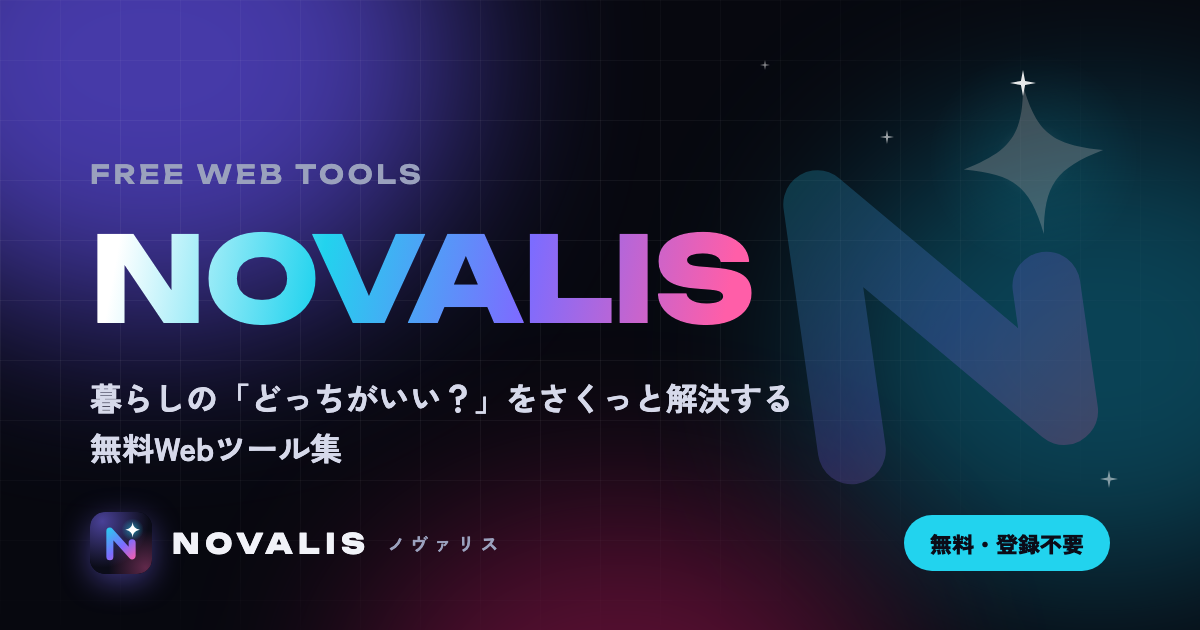
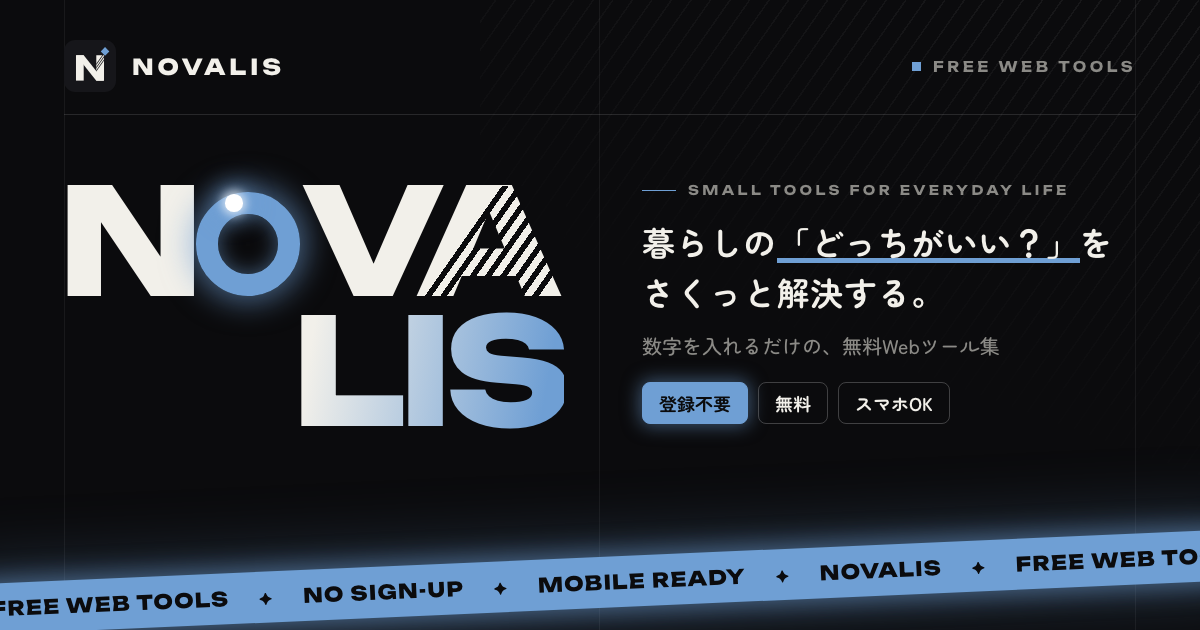
シェア画像（OGP）を今のデザインに作り直し、画像アドレスに版番号を追加

diff --git a/index.html b/index.html
@@ -14,7 +14,7 @@
   <meta property="og:url" content="https://novalis-lab.github.io/">
   <meta property="og:title" content="novalis｜暮らしの「どっちがいい？」を解決する無料Webツール集">
   <meta property="og:description" content="高速と下道の料金比較、予算内のメニュー決めスロットなど、登録不要ですぐ使える無料Webツール集。">
-  <meta property="og:image" content="https://novalis-lab.github.io/ogp.png">
+  <meta property="og:image" content="https://novalis-lab.github.io/ogp.png?v=20261113">
   <meta property="og:image:width" content="1200">
   <meta property="og:image:height" content="630">
   <meta property="og:image:alt" content="novalis - 暮らしの「どっちがいい？」をさくっと解決する無料Webツール集">

diff --git a/privacy/index.html b/privacy/index.html
@@ -12,7 +12,7 @@
   <meta property="og:locale" content="ja_JP">
   <meta property="og:url" content="https://novalis-lab.github.io/privacy/">
   <meta property="og:title" content="プライバシーポリシー｜novalis">
-  <meta property="og:image" content="https://novalis-lab.github.io/ogp.png">
+  <meta property="og:image" content="https://novalis-lab.github.io/ogp.png?v=20261113">
   <!-- サイトのアイコン -->
   <link rel="icon" href="/icon.svg?v=20261113bb" type="image/svg+xml">
   <link rel="icon" href="/favicon-32.png?v=20261113bb" sizes="32x32" type="image/png">

diff --git a/about/index.html b/about/index.html
@@ -12,7 +12,7 @@
   <meta property="og:locale" content="ja_JP">
   <meta property="og:url" content="https://novalis-lab.github.io/about/">
   <meta property="og:title" content="運営者情報｜novalis">
-  <meta property="og:image" content="https://novalis-lab.github.io/ogp.png">
+  <meta property="og:image" content="https://novalis-lab.github.io/ogp.png?v=20261113">
   <!-- サイトのアイコン -->
   <link rel="icon" href="/icon.svg?v=20261113bb" type="image/svg+xml">
   <link rel="icon" href="/favicon-32.png?v=20261113bb" sizes="32x32" type="image/png">
